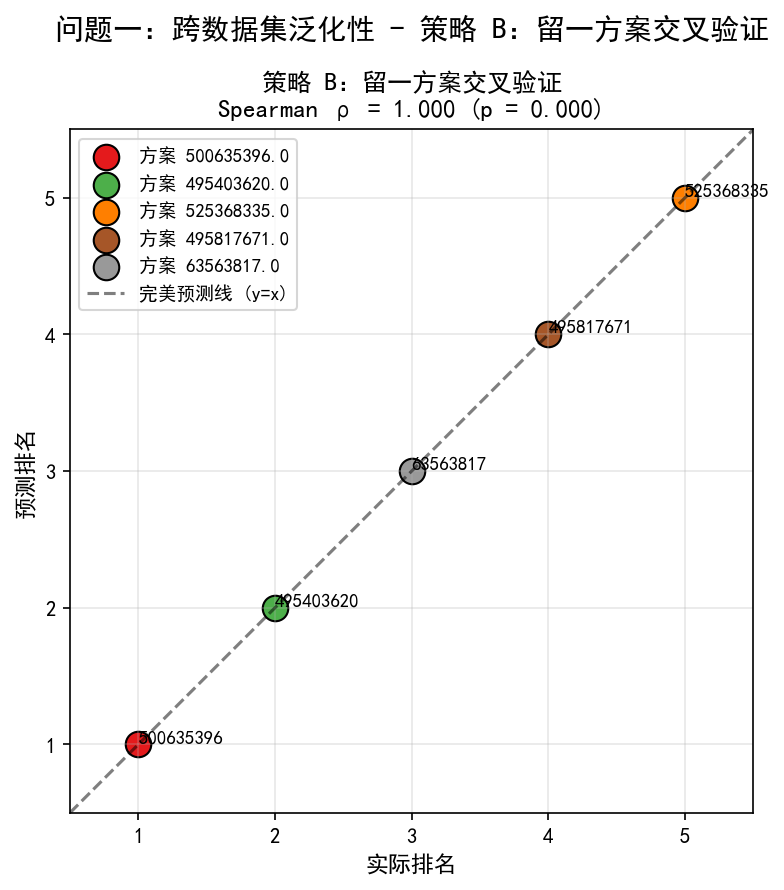
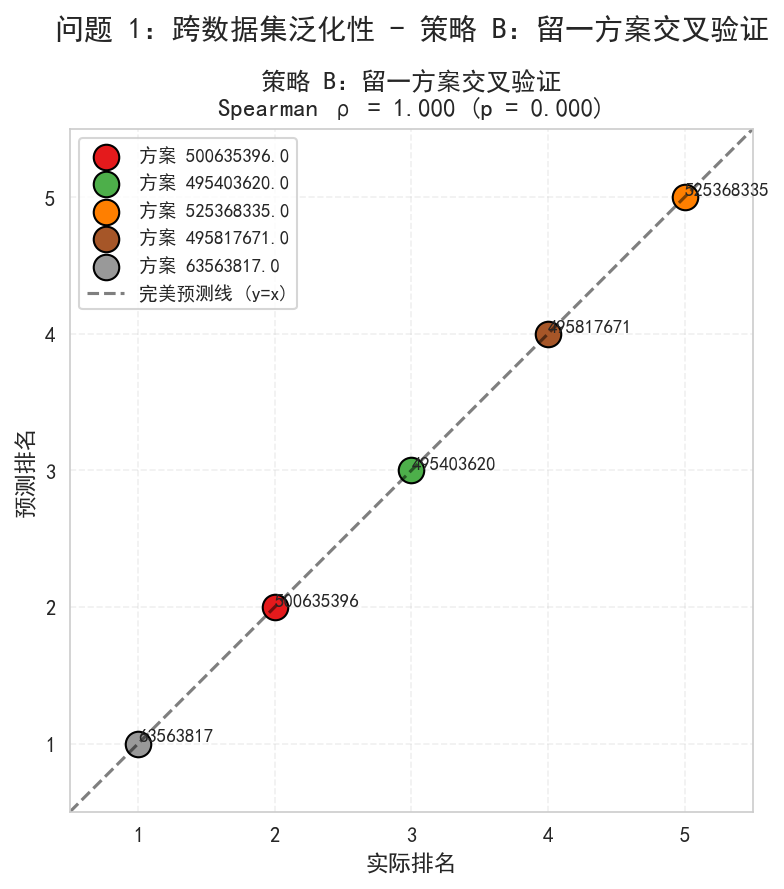
新增泛化验证分析和基线对比优化

diff --git a/src/q1_bootstrap.py b/src/q1_bootstrap.py
@@ -66,9 +66,15 @@ def _bootstrap_one_holiday(daily_series, value_col, holiday_date_str,
     df = df.sort_values('ds').reset_index(drop=True)
 
     diffs = []
+    fail_a = 0  # 模型 A（含 holidays）失败计数
+    fail_b = 0  # 模型 B（无 holidays）失败计数
+    fail_window = 0  # 窗口期匹配失败计数
+    max_attempts = n_boot * 5  # 最多尝试 5 倍次数，避免无限循环
+    attempts = 0
     n = len(df)
 
-    for b in range(n_boot):
+    while len(diffs) < n_boot and attempts < max_attempts:
+        attempts += 1
         # 有放回重采样
         idx = np.random.choice(n, size=n, replace=True)
         boot = df.iloc[idx].reset_index(drop=True)
@@ -86,6 +92,7 @@ def _bootstrap_one_holiday(daily_series, value_col, holiday_date_str,
             yhat_a = fc_a.set_index('ds')['yhat']
             yhat_a = yhat_a[~yhat_a.index.duplicated(keep='first')]
         except Exception:
+            fail_a += 1
             continue
 
         # 模型 B：无 holidays
@@ -98,6 +105,7 @@ def _bootstrap_one_holiday(daily_series, value_col, holiday_date_str,
             yhat_b = fc_b.set_index('ds')['yhat']
             yhat_b = yhat_b[~yhat_b.index.duplicated(keep='first')]
         except Exception:
+            fail_b += 1
             continue
 
         # 窗口期内的差值
@@ -105,6 +113,7 @@ def _bootstrap_one_holiday(daily_series, value_col, holiday_date_str,
         win_end   = d_holiday + pd.Timedelta(days=window_days)
         mask = (yhat_a.index >= win_start) & (yhat_a.index <= win_end)
         if mask.sum() == 0:
+            fail_window += 1
             continue
         # 实际值：因 boot 有重复日期，先聚合到每天
         boot_daily = boot.groupby('ds')['y'].sum()
@@ -116,6 +125,9 @@ def _bootstrap_one_holiday(daily_series, value_col, holiday_date_str,
     diffs = np.array(diffs)
     if len(diffs) == 0:
         return None
+    if len(diffs) < n_boot:
+        print(f'    [warn] {holiday_name} {holiday_date_str}: 仅 {len(diffs)}/{n_boot} 次成功'
+              f'（失败 A={fail_a}, B={fail_b}, 窗口={fail_window}）', flush=True)
     return {
         '节日':       holiday_name,
         '日期':       holiday_date_str,
@@ -125,7 +137,10 @@ def _bootstrap_one_holiday(daily_series, value_col, holiday_date_str,
         'CI下限(2.5%)':  float(np.percentile(diffs, 2.5)),
         'CI上限(97.5%)': float(np.percentile(diffs, 97.5)),
         'p值(双侧)':  float(2 * min((diffs <= 0).mean(), (diffs >= 0).mean())),
-        'n_boot':     len(diffs),
+        'n_boot_target': n_boot,
+        'n_boot_valid':  len(diffs),
+        'n_boot_fail_a': fail_a,
+        'n_boot_fail_b': fail_b,
     }
 
 

diff --git a/src/q1_generalization.py b/src/q1_generalization.py
@@ -21,6 +21,7 @@ sys.path.insert(0, os.path.dirname(os.path.dirname(os.path.abspath(__file__))))
 import warnings
 warnings.filterwarnings('ignore')
 
+import json
 import matplotlib
 matplotlib.rcParams['font.sans-serif'] = ['SimHei', 'Microsoft YaHei', 'DejaVu Sans']
 matplotlib.rcParams['axes.unicode_minus'] = False
@@ -375,21 +376,25 @@ def bootstrap_generalization(n_bootstrap=100):
 
     对全量数据做 n_bootstrap 次有放回采样，每次计算 CRITIC 权重和综合评分，
     输出：权重 95% CI 和评分 95% CI。
+
+    修复（2026-09-11）：原版用 `0.7*CRITIC + 0.3*SUBJECTIVE_WEIGHTS` 手算混合权重，
+    与 `q1_weights.py` 的归一化顺序不一致，导致基准权重过期。改为直接读取
+    `results/tables/q1_score.json` 中已经算好的 `weight_mixed` / `weight_critic`。
     """
     print(f'\n=== 策略 C：Bootstrap 重采样泛化误差 (n={n_bootstrap}) ===', flush=True)
     data = build_q1_data()
 
-    # 全量 CRITIC 权重（基准）
-    all_plan_scores = _score_per_plan(data)
-    dim_names = list(all_plan_scores.columns)
-    w_critic_full = critic_weights(all_plan_scores.values)
-    weighted_scores_full = all_plan_scores.values @ w_critic_full
+    # 全量 CRITIC 权重（基准）：从最新 q1_score.json 读取，避免手算公式过期
+    score_json_path = os.path.join(TABLES_DIR, 'q1_score.json')
+    with open(score_json_path, 'r', encoding='utf-8') as f:
+        score_data = json.load(f)
+    dim_names = list(score_data['dimensions'].keys())
+    w_critic_full = np.array([score_data['dimensions'][d]['weight_critic'] for d in dim_names])
+    w_mixed = np.array([score_data['dimensions'][d]['weight_mixed']   for d in dim_names])
+    w_mixed = w_mixed / w_mixed.sum()  # 数值归一化（防浮点漂移）
 
-    # 全量综合分（混合权重）
-    w_mixed = 0.7 * w_critic_full + 0.3 * np.array([
-        SUBJECTIVE_WEIGHTS[name] for name in dim_names
-    ])
-    w_mixed = w_mixed / w_mixed.sum()
+    all_plan_scores = _score_per_plan(data)
+    weighted_scores_full = all_plan_scores.values @ w_critic_full
     full_mixed_scores = all_plan_scores.values @ w_mixed
 
     print(f'  基准混合权重: {dict(zip(dim_names, w_mixed.round(4)))}', flush=True)

diff --git a/src/q1_holiday_penalty.py b/src/q1_holiday_penalty.py
@@ -146,6 +146,32 @@ def apply_penalty_to_score(score_json_path=None):
         for info in result['dimensions'].values()
     )
     result['overall_score'] = round(new_overall, 1)
+
+    # 同步更新 overall_score_breakdown 中"投放策略与时间"的 dimension_score
+    if 'overall_score_breakdown' in result and '投放策略与时间' in result['overall_score_breakdown']:
+        wd = result['overall_score_breakdown']['投放策略与时间']
+        wd['dimension_score'] = round(new_time_score, 1)
+        wd['weighted'] = round(wd['weight_mixed'] * new_time_score, 2)
+        wd['original_dimension_score'] = round(old_time_score, 1)
+        wd['original_weighted'] = round(wd['weight_mixed'] * old_time_score, 2)
+
+    # 同步更新 plan_overall_scores 和 plan_avg_for_reference
+    if 'plan_overall_scores' in result:
+        new_plan_overall = {}
+        for pid_key, sc in result['plan_scores'].items():
+            new_plan_overall[int(pid_key) if not isinstance(pid_key, str) or pid_key.lstrip('-').isdigit() else pid_key] = round(sum(
+                sc[dim] * result['dimensions'][dim]['weight_mixed']
+                for dim in result['dimensions']
+            ), 2)
+        result['plan_overall_scores'] = new_plan_overall
+        result['plan_avg_for_reference'] = round(float(np.mean(list(new_plan_overall.values()))), 2)
+
+    # 更新 plan_scores[pid].综合分
+    if 'plan_overall_scores' in result:
+        for pid_key, sc in result['plan_scores'].items():
+            pid_int = int(pid_key) if (isinstance(pid_key, str) and pid_key.lstrip('-').isdigit()) else (pid_key if isinstance(pid_key, int) else None)
+            if pid_int is not None and pid_int in result['plan_overall_scores']:
+                sc['综合分'] = result['plan_overall_scores'][pid_int]
     # 重算评级
     if new_overall >= 85:   result['grade'] = 'A (优秀)'
     elif new_overall >= 70: result['grade'] = 'B (良好)'

diff --git a/src/q1_scoring.py b/src/q1_scoring.py
@@ -603,6 +603,20 @@ def run_scoring():
 
     result = {
         'overall_score': round(overall, 1),
+        'overall_score_method': '按4维度加权平均 (Σ 维度分 × 混合权重)；不等同于 5 方案综合分的算术平均',
+        'overall_score_breakdown': {
+            dim: {
+                'dimension_score': score,
+                'weight_mixed':   mixed_weights[dim],
+                'weighted':       round(mixed_weights[dim] * score, 2),
+            }
+            for dim, score in [
+                ('设计质量与创意',   s1['综合评分']),
+                ('关键词管理与运用', s2['综合评分']),
+                ('出价策略与预算',   s3['综合评分']),
+                ('投放策略与时间',   s4['综合评分']),
+            ]
+        },
         'grade': grade,
         'weights_method': 'CRITIC + 业务混合 70:30',
         'plan_scores': plan_scores.to_dict(orient='index'),  # 新增：每方案 4 维得分
@@ -629,6 +643,16 @@ def run_scoring():
                                'details': s4},
         },
     }
+
+    # 计算每方案加权综合分（用于口径对比）
+    w_arr = np.array([mixed_weights[d] for d in dim_names])
+    plan_overall = (plan_scores.values @ w_arr).round(2)
+    plan_overall_dict = {int(pid): float(s) for pid, s in zip(plan_scores.index, plan_overall)}
+    result['plan_overall_scores'] = plan_overall_dict
+    result['plan_avg_for_reference'] = round(float(np.mean(plan_overall)), 2)
+    # plan_scores 中补一个 '综合分' 字段（to_dict(orient='index') 的 key 是 int）
+    for idx_pos, pid in enumerate(plan_scores.index):
+        result['plan_scores'][int(pid)]['综合分'] = float(plan_overall[idx_pos])
 
     # 保存
     ensure_dir(TABLES_DIR)

diff --git a/src/q1_baseline.py b/src/q1_baseline.py
@@ -47,7 +47,7 @@ from src.plot_style import apply_style, save_fig, COLORS
 ROOT = os.path.dirname(os.path.dirname(os.path.abspath(__file__)))
 PLAN_SCORES_CSV = os.path.join(ROOT, 'results', 'tables', 'q1_plan_scores.csv')
 SCORE_JSON      = os.path.join(ROOT, 'results', 'tables', 'q1_score.json')
-OUT_CMP_CSV     = os.path.join(ROOT, 'results', 'tables', 'q1_baseline_comparison.csv')
+OUT_CMP_CSV     = os.path.join(ROOT, 'results', 'tables', 'q1_baseline_comparison_pre_holiday.csv')
 OUT_CORR_CSV    = os.path.join(ROOT, 'results', 'tables', 'q1_baseline_corr.csv')
 OUT_FIG         = os.path.join(ROOT, 'results', 'figures', 'q1_baseline_rank_scatter.png')
 
